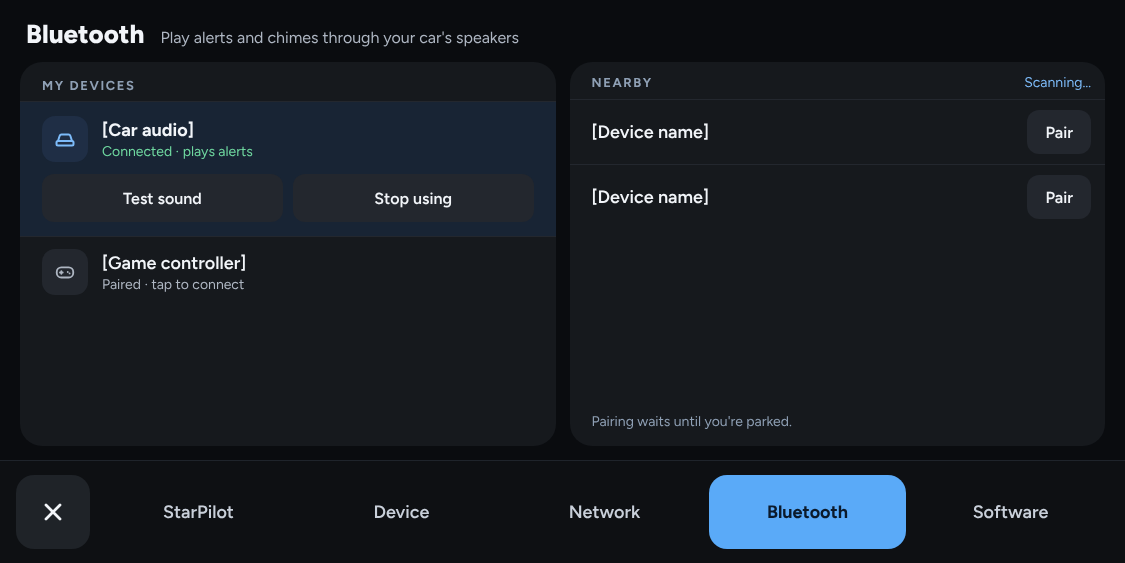
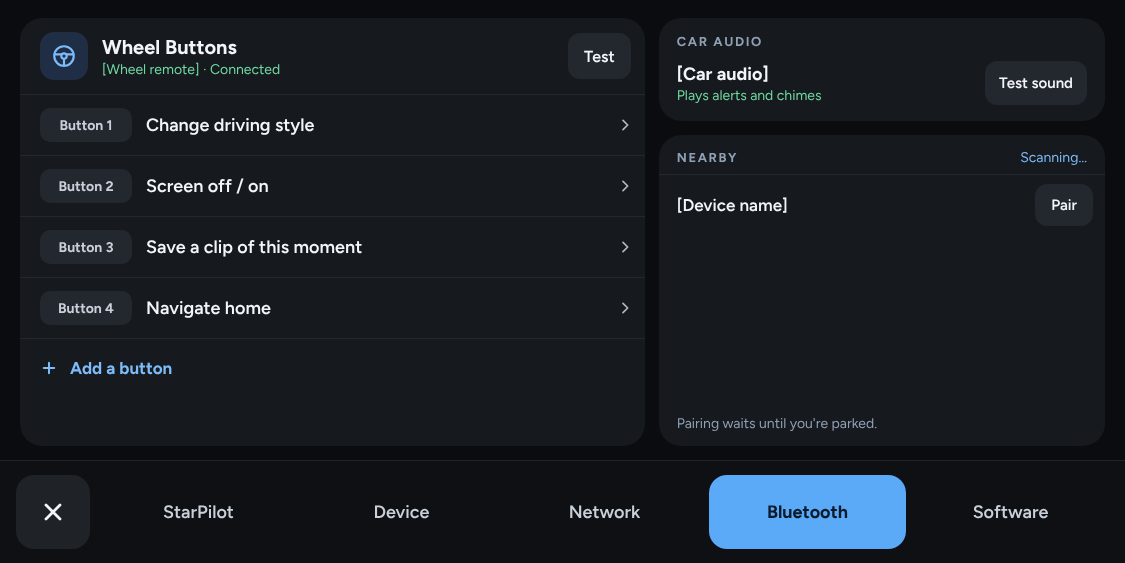
Center the Bluetooth tab on wheel-button remotes
Lists assigned buttons with presets, adds a two-step assign sheet
(press the button, then pick an action), and moves car audio and
pairing to a side column.

Claude-Session: https://claude.ai/code/session_01R4pPc2hcx88Dbjjec1p8WC

diff --git a/starpilot/docs/design/essentials/bluetoothtab.html b/starpilot/docs/design/essentials/bluetoothtab.html
@@ -15,45 +15,54 @@ a{color:#7DBBF9}a:hover{color:#A9D3FB}
 </style>
 
 <div style="width: 1125px; height: 563px; box-sizing: border-box; background: #0A0C0F; color: #F2F5F9; font-family: Figtree, system-ui, sans-serif; display: flex; flex-direction: column; overflow: hidden;">
-  <div style="flex-grow: 1; display: flex; flex-direction: column; gap: 12px; padding: 18px 20px 14px; min-height: 0;">
-    <div style="display: flex; align-items: baseline; gap: 16px; padding: 0 6px;">
-      <h1 style="margin: 0; font-size: 26px; font-weight: 800;">Bluetooth</h1>
-      <span style="font-size: 16px; color: #AEB6C2;">Play alerts and chimes through your car's speakers</span>
-    </div>
-    <div style="flex-grow: 1; display: grid; grid-template-columns: repeat(2, minmax(0, 1fr)); gap: 14px; min-height: 0;">
-      <div style="background: #16191D; border-radius: 22px; display: flex; flex-direction: column; overflow: hidden;">
-        <span style="font-size: 13px; font-weight: 700; letter-spacing: 1.6px; color: #8FA0B5; padding: 16px 22px 8px;">MY DEVICES</span>
-        <div style="display: flex; flex-direction: column; gap: 12px; padding: 14px 22px; background: #182434; border-top: 1px solid #23272E;">
-          <div style="display: flex; align-items: center; gap: 14px;">
-            <div style="width: 46px; height: 46px; border-radius: 13px; background: #1F2E45; display: flex; align-items: center; justify-content: center; flex-shrink: 0;"><svg width="24" height="24" viewBox="0 0 24 24" fill="none" stroke="#7DBBF9" stroke-width="2" stroke-linecap="round" stroke-linejoin="round" aria-hidden="true"><path d="M5 14l1.6-5A2 2 0 0 1 8.5 7.6h7a2 2 0 0 1 1.9 1.4L19 14"></path><rect x="3.5" y="14" width="17" height="4.5" rx="1.5"></rect></svg></div>
-            <div style="flex-grow: 1; display: flex; flex-direction: column; gap: 2px;"><span style="font-size: 18px; font-weight: 700;">[Car audio]</span><span style="font-size: 14px; color: #6FD8A0;">Connected · plays alerts</span></div>
-          </div>
-          <div style="display: grid; grid-template-columns: repeat(2, minmax(0, 1fr)); gap: 10px;">
-            <button type="button" style="font-family: inherit; height: 48px; border: 0; border-radius: 12px; background: #23272E; color: #F2F5F9; font-size: 16px; font-weight: 600;">Test sound</button>
-            <button type="button" style="font-family: inherit; height: 48px; border: 0; border-radius: 12px; background: #23272E; color: #F2F5F9; font-size: 16px; font-weight: 600;">Stop using</button>
-          </div>
-        </div>
-        <div style="display: flex; align-items: center; gap: 14px; padding: 0 18px 0 22px; height: 70px; border-top: 1px solid #23272E;">
-          <div style="width: 46px; height: 46px; border-radius: 13px; background: #23272E; display: flex; align-items: center; justify-content: center; flex-shrink: 0;"><svg width="22" height="22" viewBox="0 0 24 24" fill="none" stroke="#AEB6C2" stroke-width="2" stroke-linecap="round" stroke-linejoin="round" aria-hidden="true"><rect x="3" y="7" width="18" height="11" rx="5"></rect><path d="M8 11v3M6.5 12.5h3M15 12h.01M17 13.5h.01"></path></svg></div>
-          <div style="flex-grow: 1; display: flex; flex-direction: column; gap: 2px;"><span style="font-size: 18px; font-weight: 600;">[Game controller]</span><span style="font-size: 14px; color: #AEB6C2;">Paired · tap to connect</span></div>
-        </div>
-        <div style="flex-grow: 1;"></div>
+  <div style="flex-grow: 1; display: grid; grid-template-columns: 1.4fr 1fr; gap: 14px; padding: 18px 20px 14px; min-height: 0;">
+    <div style="background: #16191D; border-radius: 22px; display: flex; flex-direction: column; overflow: hidden;">
+      <div style="display: flex; align-items: center; gap: 14px; padding: 14px 14px 14px 20px; border-bottom: 1px solid #23272E;">
+        <div style="width: 48px; height: 48px; border-radius: 14px; background: #1F2E45; display: flex; align-items: center; justify-content: center; flex-shrink: 0;"><svg width="26" height="26" viewBox="0 0 24 24" fill="none" stroke="#7DBBF9" stroke-width="2" stroke-linecap="round" stroke-linejoin="round" aria-hidden="true"><circle cx="12" cy="12" r="9"></circle><circle cx="12" cy="12" r="2.5"></circle><path d="M3.5 10.5h6M14.5 10.5h6M12 14.5V21"></path></svg></div>
+        <div style="flex-grow: 1; display: flex; flex-direction: column; gap: 2px;"><span style="font-size: 20px; font-weight: 700;">Wheel Buttons</span><span style="font-size: 14px; color: #6FD8A0;">[Wheel remote] · Connected</span></div>
+        <button type="button" style="font-family: inherit; height: 46px; padding: 0 16px; border: 0; border-radius: 12px; background: #23272E; color: #F2F5F9; font-size: 16px; font-weight: 600;">Test</button>
       </div>
-      <div style="background: #16191D; border-radius: 22px; display: flex; flex-direction: column; overflow: hidden;">
-        <div style="display: flex; align-items: center; gap: 12px; padding: 12px 14px 8px 22px;">
+      <div style="display: flex; align-items: center; gap: 14px; padding: 0 12px 0 20px; height: 60px; border-bottom: 1px solid #23272E;">
+        <span style="min-width: 92px; height: 34px; border-radius: 10px; background: #23272E; color: #C9D0DA; font-size: 14px; font-weight: 700; display: flex; align-items: center; justify-content: center;">Button 1</span>
+        <span style="flex-grow: 1; font-size: 18px; font-weight: 600;">Change driving style</span>
+        <svg width="16" height="16" viewBox="0 0 24 24" fill="none" stroke="#AEB6C2" stroke-width="2.6" stroke-linecap="round" stroke-linejoin="round" aria-hidden="true"><path d="M9 5l7 7-7 7"></path></svg>
+      </div>
+      <div style="display: flex; align-items: center; gap: 14px; padding: 0 12px 0 20px; height: 60px; border-bottom: 1px solid #23272E;">
+        <span style="min-width: 92px; height: 34px; border-radius: 10px; background: #23272E; color: #C9D0DA; font-size: 14px; font-weight: 700; display: flex; align-items: center; justify-content: center;">Button 2</span>
+        <span style="flex-grow: 1; font-size: 18px; font-weight: 600;">Screen off / on</span>
+        <svg width="16" height="16" viewBox="0 0 24 24" fill="none" stroke="#AEB6C2" stroke-width="2.6" stroke-linecap="round" stroke-linejoin="round" aria-hidden="true"><path d="M9 5l7 7-7 7"></path></svg>
+      </div>
+      <div style="display: flex; align-items: center; gap: 14px; padding: 0 12px 0 20px; height: 60px; border-bottom: 1px solid #23272E;">
+        <span style="min-width: 92px; height: 34px; border-radius: 10px; background: #23272E; color: #C9D0DA; font-size: 14px; font-weight: 700; display: flex; align-items: center; justify-content: center;">Button 3</span>
+        <span style="flex-grow: 1; font-size: 18px; font-weight: 600;">Save a clip of this moment</span>
+        <svg width="16" height="16" viewBox="0 0 24 24" fill="none" stroke="#AEB6C2" stroke-width="2.6" stroke-linecap="round" stroke-linejoin="round" aria-hidden="true"><path d="M9 5l7 7-7 7"></path></svg>
+      </div>
+      <div style="display: flex; align-items: center; gap: 14px; padding: 0 12px 0 20px; height: 60px; border-bottom: 1px solid #23272E;">
+        <span style="min-width: 92px; height: 34px; border-radius: 10px; background: #23272E; color: #C9D0DA; font-size: 14px; font-weight: 700; display: flex; align-items: center; justify-content: center;">Button 4</span>
+        <span style="flex-grow: 1; font-size: 18px; font-weight: 600;">Navigate home</span>
+        <svg width="16" height="16" viewBox="0 0 24 24" fill="none" stroke="#AEB6C2" stroke-width="2.6" stroke-linecap="round" stroke-linejoin="round" aria-hidden="true"><path d="M9 5l7 7-7 7"></path></svg>
+      </div>
+      <a href="wheelbuttonlearn.html" style="text-decoration: none; display: flex; align-items: center; gap: 12px; padding: 0 20px; height: 58px; color: #7DBBF9; font-size: 17px; font-weight: 700;"><svg width="18" height="18" viewBox="0 0 24 24" fill="none" stroke="#7DBBF9" stroke-width="2.6" stroke-linecap="round" aria-hidden="true"><path d="M12 5v14M5 12h14"></path></svg>Add a button</a>
+    </div>
+    <div style="display: flex; flex-direction: column; gap: 14px; min-height: 0;">
+      <div style="background: #16191D; border-radius: 22px; padding: 16px 18px; display: flex; flex-direction: column; gap: 12px;">
+        <span style="font-size: 13px; font-weight: 700; letter-spacing: 1.6px; color: #8FA0B5;">CAR AUDIO</span>
+        <div style="display: flex; align-items: center; gap: 12px;">
+          <div style="flex-grow: 1; display: flex; flex-direction: column; gap: 2px;"><span style="font-size: 18px; font-weight: 700;">[Car audio]</span><span style="font-size: 14px; color: #6FD8A0;">Plays alerts and chimes</span></div>
+          <button type="button" style="font-family: inherit; height: 44px; padding: 0 14px; border: 0; border-radius: 12px; background: #23272E; color: #F2F5F9; font-size: 15px; font-weight: 600;">Test sound</button>
+        </div>
+      </div>
+      <div style="flex-grow: 1; background: #16191D; border-radius: 22px; display: flex; flex-direction: column; overflow: hidden;">
+        <div style="display: flex; align-items: center; gap: 12px; padding: 14px 18px 8px;">
           <span style="flex-grow: 1; font-size: 13px; font-weight: 700; letter-spacing: 1.6px; color: #8FA0B5;">NEARBY</span>
           <span style="font-size: 14px; color: #7DBBF9;">Scanning…</span>
         </div>
-        <div style="display: flex; align-items: center; gap: 14px; padding: 0 14px 0 22px; height: 64px; border-top: 1px solid #23272E;">
-          <span style="flex-grow: 1; font-size: 18px; font-weight: 600;">[Device name]</span>
-          <button type="button" style="font-family: inherit; height: 44px; padding: 0 18px; border: 0; border-radius: 12px; background: #23272E; color: #F2F5F9; font-size: 16px; font-weight: 600;">Pair</button>
-        </div>
-        <div style="display: flex; align-items: center; gap: 14px; padding: 0 14px 0 22px; height: 64px; border-top: 1px solid #23272E;">
-          <span style="flex-grow: 1; font-size: 18px; font-weight: 600;">[Device name]</span>
-          <button type="button" style="font-family: inherit; height: 44px; padding: 0 18px; border: 0; border-radius: 12px; background: #23272E; color: #F2F5F9; font-size: 16px; font-weight: 600;">Pair</button>
+        <div style="display: flex; align-items: center; gap: 12px; padding: 0 12px 0 18px; height: 60px; border-top: 1px solid #23272E;">
+          <span style="flex-grow: 1; font-size: 17px; font-weight: 600;">[Device name]</span>
+          <button type="button" style="font-family: inherit; height: 42px; padding: 0 16px; border: 0; border-radius: 12px; background: #23272E; color: #F2F5F9; font-size: 15px; font-weight: 600;">Pair</button>
         </div>
         <div style="flex-grow: 1;"></div>
-        <span style="font-size: 14px; color: #8FA0B5; padding: 12px 22px 16px;">Pairing waits until you're parked.</span>
+        <span style="font-size: 14px; color: #8FA0B5; padding: 10px 18px 14px;">Pairing waits until you're parked.</span>
       </div>
     </div>
   </div>

diff --git a/starpilot/docs/design/essentials/wheelbuttonlearn.html b/starpilot/docs/design/essentials/wheelbuttonlearn.html
@@ -1,0 +1,55 @@
+<!doctype html>
+<html lang="en">
+<head>
+<meta charset="utf-8">
+<title>Assign a wheel button</title>
+</head>
+<body>
+
+
+<link rel="preconnect" href="https://fonts.googleapis.com">
+<link href="https://fonts.googleapis.com/css2?family=Figtree:wght@400;500;600;700;800&amp;display=swap" rel="stylesheet">
+<style>
+body{margin:0}
+a{color:#7DBBF9}a:hover{color:#A9D3FB}
+</style>
+
+<div style="width: 1125px; height: 563px; box-sizing: border-box; background: #050608; color: #F2F5F9; font-family: Figtree, system-ui, sans-serif; display: flex; flex-direction: column; justify-content: flex-end; overflow: hidden; position: relative;">
+  <div aria-hidden="true" style="position: absolute; left: 20px; right: 20px; top: 18px; height: 60px; border-radius: 22px; background: #0C0E11;"></div>
+  <section aria-label="Assign a wheel button" style="position: relative; height: 470px; box-sizing: border-box; background: #16191D; border-radius: 26px 26px 0 0; border-top: 1px solid #262B33; padding: 14px 22px 20px; display: flex; flex-direction: column; gap: 14px;">
+    <div style="align-self: center; width: 64px; height: 6px; border-radius: 3px; background: #3A414C;"></div>
+    <div style="display: flex; align-items: center; gap: 12px;">
+      <h2 style="margin: 0; flex-grow: 1; font-size: 28px; font-weight: 800;">Assign a button</h2>
+      <a href="bluetoothtab.html" style="text-decoration: none; height: 56px; padding: 0 22px; border-radius: 16px; background: #23272E; color: #F2F5F9; font-size: 17px; font-weight: 700; display: flex; align-items: center;">Cancel</a>
+      <a href="bluetoothtab.html" style="text-decoration: none; height: 56px; padding: 0 28px; border-radius: 16px; background: #5AAAF8; color: #0B1A2B; font-size: 17px; font-weight: 800; display: flex; align-items: center;">Save</a>
+    </div>
+    <div style="flex-grow: 1; display: flex; gap: 16px; min-height: 0;">
+      <div style="width: 280px; flex-shrink: 0; background: #13221A; border: 1px solid #1F5A3A; border-radius: 20px; padding: 20px; box-sizing: border-box; display: flex; flex-direction: column; gap: 10px;">
+        <span style="font-size: 13px; font-weight: 700; letter-spacing: 1.6px; color: #6FD8A0;">STEP 1 · PRESS IT</span>
+        <div style="width: 64px; height: 64px; border-radius: 32px; background: #1B3A28; display: flex; align-items: center; justify-content: center;"><svg width="30" height="30" viewBox="0 0 24 24" fill="none" stroke="#6FD8A0" stroke-width="2.6" stroke-linecap="round" stroke-linejoin="round" aria-hidden="true"><path d="M5 12l5 5 9-10"></path></svg></div>
+        <span style="font-size: 22px; font-weight: 800;">Button 5 detected</span>
+        <span style="font-size: 15px; color: #C9D8D0; line-height: 1.4;">Press a different button on the remote to change it.</span>
+        <div style="flex-grow: 1;"></div>
+        <span style="font-size: 13px; color: #8FA0B5;">Listening stops after 20 s.</span>
+      </div>
+      <div style="flex-grow: 1; min-width: 0; display: flex; flex-direction: column; gap: 10px;">
+        <span style="font-size: 13px; font-weight: 700; letter-spacing: 1.6px; color: #7DBBF9;">STEP 2 · CHOOSE WHAT IT DOES</span>
+        <div role="radiogroup" aria-label="Button action" style="flex-grow: 1; display: grid; grid-template-columns: repeat(3, minmax(0, 1fr)); gap: 10px;">
+          <button type="button" role="radio" aria-checked="false" style="font-family: inherit; border: 2px solid transparent; border-radius: 16px; background: #1E2227; color: #F2F5F9; display: flex; align-items: center; gap: 12px; padding: 0 14px; text-align: left; font-size: 16px; font-weight: 600;"><svg width="22" height="22" viewBox="0 0 24 24" fill="none" stroke="#7DBBF9" stroke-width="2" stroke-linecap="round" aria-hidden="true"><path d="M4 7h16M4 12h10M4 17h6"></path></svg>Change driving style</button>
+          <button type="button" role="radio" aria-checked="false" style="font-family: inherit; border: 2px solid transparent; border-radius: 16px; background: #1E2227; color: #F2F5F9; display: flex; align-items: center; gap: 12px; padding: 0 14px; text-align: left; font-size: 16px; font-weight: 600;"><svg width="22" height="22" viewBox="0 0 24 24" fill="none" stroke="#7DBBF9" stroke-width="2" stroke-linecap="round" stroke-linejoin="round" aria-hidden="true"><rect x="3" y="4" width="18" height="12" rx="2"></rect><path d="M8 20h8M12 16v4"></path></svg>Screen off / on</button>
+          <button type="button" role="radio" aria-checked="false" style="font-family: inherit; border: 2px solid transparent; border-radius: 16px; background: #1E2227; color: #F2F5F9; display: flex; align-items: center; gap: 12px; padding: 0 14px; text-align: left; font-size: 16px; font-weight: 600;"><svg width="22" height="22" viewBox="0 0 24 24" fill="none" stroke="#7DBBF9" stroke-width="2" stroke-linecap="round" stroke-linejoin="round" aria-hidden="true"><path d="M4 17a8 8 0 1 1 16 0"></path><path d="M12 17l4-5"></path></svg>Set speed to…</button>
+          <button type="button" role="radio" aria-checked="false" style="font-family: inherit; border: 2px solid transparent; border-radius: 16px; background: #1E2227; color: #F2F5F9; display: flex; align-items: center; gap: 12px; padding: 0 14px; text-align: left; font-size: 16px; font-weight: 600;"><svg width="22" height="22" viewBox="0 0 24 24" fill="none" stroke="#7DBBF9" stroke-width="2" stroke-linejoin="round" aria-hidden="true"><path d="M6 3h12v18l-6-4-6 4z"></path></svg>Save a clip</button>
+          <button type="button" role="radio" aria-checked="false" style="font-family: inherit; border: 2px solid transparent; border-radius: 16px; background: #1E2227; color: #F2F5F9; display: flex; align-items: center; gap: 12px; padding: 0 14px; text-align: left; font-size: 16px; font-weight: 600;"><svg width="22" height="22" viewBox="0 0 24 24" fill="none" stroke="#7DBBF9" stroke-width="2" stroke-linejoin="round" aria-hidden="true"><path d="M12 3.5l2.6 5.3 5.9.9-4.3 4.1 1 5.8L12 16.9l-5.2 2.7 1-5.8-4.3-4.1 5.9-.9z"></path></svg>Navigate to favorite</button>
+          <button type="button" role="radio" aria-checked="true" style="font-family: inherit; border: 2px solid #5AAAF8; border-radius: 16px; background: #182434; color: #F2F5F9; display: flex; align-items: center; gap: 12px; padding: 0 14px; text-align: left; font-size: 16px; font-weight: 700;"><svg width="22" height="22" viewBox="0 0 24 24" fill="none" stroke="#7DBBF9" stroke-width="2" stroke-linecap="round" stroke-linejoin="round" aria-hidden="true"><circle cx="12" cy="12" r="9"></circle><circle cx="12" cy="12" r="2.5"></circle><path d="M3.5 10.5h6M14.5 10.5h6M12 14.5V21"></path></svg>Always-on steering</button>
+          <button type="button" role="radio" aria-checked="false" style="font-family: inherit; border: 2px solid transparent; border-radius: 16px; background: #1E2227; color: #F2F5F9; display: flex; align-items: center; gap: 12px; padding: 0 14px; text-align: left; font-size: 16px; font-weight: 600;"><svg width="22" height="22" viewBox="0 0 24 24" fill="none" stroke="#7DBBF9" stroke-width="2" stroke-linecap="round" stroke-linejoin="round" aria-hidden="true"><path d="M3 12h14M13 8l4 4-4 4M21 6v12"></path></svg>Coast</button>
+          <button type="button" role="radio" aria-checked="false" style="font-family: inherit; border: 2px solid transparent; border-radius: 16px; background: #1E2227; color: #F2F5F9; display: flex; align-items: center; gap: 12px; padding: 0 14px; text-align: left; font-size: 16px; font-weight: 600;"><svg width="22" height="22" viewBox="0 0 24 24" fill="none" stroke="#6FD8A0" stroke-width="2" stroke-linejoin="round" aria-hidden="true"><path d="M8 5l11 7-11 7z"></path></svg>Engage</button>
+          <button type="button" role="radio" aria-checked="false" style="font-family: inherit; border: 2px solid transparent; border-radius: 16px; background: #1E2227; color: #F2F5F9; display: flex; align-items: center; gap: 12px; padding: 0 14px; text-align: left; font-size: 16px; font-weight: 600;"><svg width="22" height="22" viewBox="0 0 24 24" fill="none" stroke="#F2A7B1" stroke-width="2" stroke-linejoin="round" aria-hidden="true"><rect x="6" y="6" width="12" height="12" rx="2"></rect></svg>Disengage</button>
+        </div>
+        <span style="font-size: 14px; color: #8FA0B5;">Pulse and glide and driver selfie are in Tuner Mode.</span>
+      </div>
+    </div>
+  </section>
+</div>
+
+</body>
+</html>

diff --git a/starpilot/docs/design/essentials/README.md b/starpilot/docs/design/essentials/README.md
@@ -37,6 +37,7 @@ Open any `.html` file in this folder in a browser. Each screen is 1125×563, the
 | Network tab | [networktab.html](networktab.html) |
 | Bluetooth tab | [bluetoothtab.html](bluetoothtab.html) |
 | Software tab | [softwaretab.html](softwaretab.html) |
+| Assign a wheel button | [wheelbuttonlearn.html](wheelbuttonlearn.html) |
 
 ## Principles
 
@@ -150,10 +151,13 @@ The bottom bar has five tabs: StarPilot, Device, Network, Bluetooth and Software
   - The Wi-Fi list, with the connected network on top, plus "Join a hidden network".
   - Cellular status, Hotspot (tethering), and Save Data, which is on by default and covers metered Wi-Fi.
   - Roaming, APN and IP address sit behind one row.
-- **Bluetooth:**
-  - Framed around one job: playing alerts through the car's speakers.
-  - My devices, with Test sound and Stop using for the audio device, and nearby devices to pair.
-  - Pairing waits until the car is parked.
+- **Bluetooth:** leads with **Wheel Buttons**, because a remote mounted on the steering wheel is the main reason to pair something.
+  - The connected remote shows a Test button and the list of assigned buttons, each with its action.
+  - New remotes start with four presets: change driving style, screen off / on, save a clip, and navigate home.
+  - **Add a button** opens a two-step sheet. Step 1: press the button on the remote; listening stops after 20 seconds. Step 2: pick one of nine actions (driving style, screen, set speed, save a clip, navigate to a favorite, always-on steering, coast, engage, disengage).
+  - Pulse and glide and driver selfie are only in Tuner Mode.
+  - This uses the existing wheel controls service (`WheelControlMappings`, `ControllerActionSlots`, `WheelControlLearnSlot`).
+  - Car audio (Test sound) and Nearby devices sit in a smaller column. Pairing waits until the car is parked.
 - **Software:**
   - Version and update status, with Check now and What's new.
   - Automatic Updates, on by default: they download while parked and install when the car turns off.
